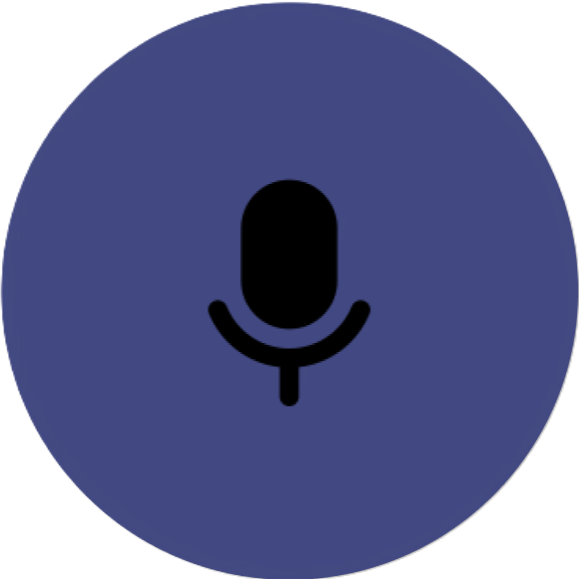
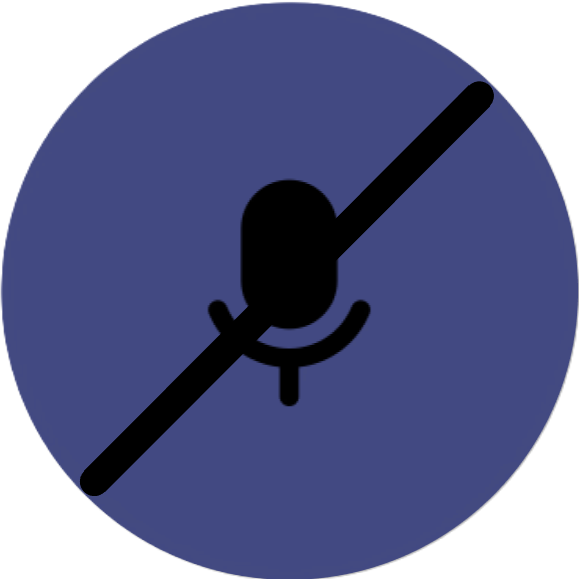
Fix: 비활성화 버튼 이미지 변경

Changed region(s): [[0.1244, 0.5285, 0.4663, 0.8705], [0.5596, 0.1244, 0.8705, 0.4663]]

diff --git a/FrontEnd/src/pages/TestPage/index.jsx b/FrontEnd/src/pages/TestPage/index.jsx
@@ -1,0 +1,332 @@
+import React, { useState, useRef } from "react";
+import Navbar from "../../components/Navbar";
+import Page from "../../components/Page";
+import Footer from "../../components/Footer";
+import { useDispatch, useSelector } from "react-redux";
+import {
+  startSpeech,
+  endSpeech,
+  assessSpeech,
+  postFeedback,
+  postComment,
+} from "../../services/speech";
+
+import Record from "./Record";
+import SpeechResult from "./SpeechResult";
+
+const TestPage = () => {
+  const token = useSelector((state) => state.userReducer.token);
+  const meetingInfo = useSelector(
+    (state) => state.studyReducer.studyInfo.meetingInfo
+  );
+
+  // ---------- Variables Before Speech ----------
+  const [title, setTitle] = useState("");
+
+  // ---------- Variables During Speech ----------
+  const [feedback, setFeedback] = useState("");
+  const [comment, setComment] = useState("");
+
+  const speechId = useRef(0);
+  const isRecording = useRef(false); // 녹화 중
+  const isLast = useRef(false);
+
+  const [mediaRecorder, setMediaRecorder] = useState(null); // 녹음
+
+  const [recordingTime, setRecordingTime] = useState(0); // 녹화 시간
+  const [recordingInterval, setRecordingInterval] = useState(null);
+
+  const audioChunksRef = useRef([]); // 음성 정보
+
+  const decibels = useRef([]);
+
+  // ---------- Variables After Speech ----------
+  const [showComment, setShowComment] = useState(true);
+
+  // ---------- Speech API Method ----------
+
+  // 녹화 시작 요청
+  const speechStart = () => {
+    startSpeech(
+      token,
+      {
+        title: title,
+        personal: false,
+        categoryId: 0,
+        sessionId: "session0",
+        // categoryId: meetingInfo.categoryId,
+        // sessionId: meetingInfo.sessionId,
+      },
+      (response) => {
+        // console.log("speechId : " + response.data.data);
+        speechId.current = response.data.data;
+        decibels.current = [];
+        // 녹화 시작
+        startRecording();
+
+        console.log("speechId : " + speechId.current);
+      },
+      (error) => {
+        console.log(error);
+      }
+    );
+  };
+
+  // 녹화 종료 요청
+  const speechEnd = () => {
+    isLast.current = true;
+    // 녹화 중지 함수 실행
+    stopRecording();
+
+    endSpeech(
+      token,
+      {
+        sessionId: "session0",
+        // sessionId: meetingInfo.sessionId,
+        speechId: speechId.current,
+        decibels: decibels.current,
+      },
+      (response) => {
+        // console.log(response);
+      },
+      (error) => {
+        console.log(error);
+      }
+    );
+  };
+
+  // 코멘트 등록 요청
+  const commentPost = () => {
+    postComment(
+      token,
+      {
+        speechId: speechId.current,
+        comment: comment,
+      },
+      (response) => {
+        // console.log(response);
+      },
+      (error) => {
+        console.log(error);
+      }
+    );
+
+    setShowComment(false);
+  };
+
+  // 피드백 등록 요청
+  const feebackPost = () => {
+    postFeedback(
+      token,
+      {
+        sessionId: "session0",
+        // sessionId: meetingInfo.sessionId,
+        content: feedback,
+      },
+      (response) => {
+        // console.log(response);
+      },
+      (error) => {
+        console.log(error);
+      }
+    );
+    setFeedback("");
+  };
+
+  // ---------- Speech Method ----------
+  const addDecibel = (newDecibel) => {
+    decibels.current.push(newDecibel);
+  };
+
+  // 녹화 시작
+  const startRecording = () => {
+    console.log("녹음 시작");
+    isLast.current = false;
+    isRecording.current = true;
+    audioChunksRef.current = []; // 오디오 청크를 새 배열로 초기화
+    setRecordingTime(0);
+
+    // recordTime 측정
+    const interval = setInterval(() => {
+      setRecordingTime((prevTime) => prevTime + 1);
+    }, 1000);
+    setRecordingInterval(interval);
+
+    navigator.mediaDevices
+      .getUserMedia({ audio: true })
+      .then((stream) => {
+        const audioContext = new AudioContext();
+        const source = audioContext.createMediaStreamSource(stream);
+        const analyzer = audioContext.createAnalyser();
+        analyzer.fftSize = 2048;
+        source.connect(analyzer);
+
+        const recorder = new MediaRecorder(stream);
+        setMediaRecorder(recorder);
+
+        // 녹음한 데이터를 upload한다.(서버에 전송한다.)
+        recorder.ondataavailable = (e) => {
+          if (e.data.size > 0) {
+            uploadAudio(e.data);
+          }
+        };
+
+        // 녹음 중지, 중지 버튼을 누른게 아닌 경우 자동으로 다시 녹음 시작
+        recorder.onstop = () => {
+          stream.getTracks().forEach((track) => track.stop());
+          if (isRecording.current) {
+            startRecording(); // 자동으로 다시 녹음 시작
+          }
+        };
+
+        recorder.start();
+
+        // 데시벨 측정
+        function analyzeAudio() {
+          if (!isRecording.current) {
+            return; // 녹음이 중지되면 분석 중지
+          }
+
+          const storedData = new Uint8Array(analyzer.frequencyBinCount);
+          analyzer.getByteFrequencyData(storedData);
+
+          let sum = 0;
+          for (let i = 0; i < storedData.length; i++) {
+            sum += storedData[i];
+          }
+
+          const average = sum / storedData.length;
+
+          // 배열의 뒤에 추가
+          addDecibel(calcDecibel(average));
+
+          setTimeout(analyzeAudio, 100);
+        }
+
+        analyzeAudio();
+
+        // 일정 주기마다 중지&재시작
+        setTimeout(() => {
+          if (recorder.state === "recording") {
+            recorder.stop();
+          }
+        }, 5000);
+      })
+      .catch((error) => {
+        console.error("오디오 스트림을 가져오는 중 오류 발생:", error);
+      });
+  };
+
+  // 데시벨 계산 후 추가하기
+  const calcDecibel = (average) => {
+    var decibel = Math.max(Math.round(38 * Math.log10(average)), 0);
+    return decibel;
+  };
+
+  // 녹화 종료
+  const stopRecording = () => {
+    // console.log("녹음 중지");
+    isRecording.current = false;
+    if (mediaRecorder && mediaRecorder.state === "recording") {
+      mediaRecorder.stop();
+    }
+
+    clearInterval(recordingInterval); // 타이머 중지
+
+    // 타이머 상태를 null로 초기화하여 다음 녹음에 영향을 주지 않도록 함
+    setRecordingInterval(null);
+  };
+
+  // 10초 평가 요청
+  const uploadAudio = async (data) => {
+    // console.log("평가 요청");
+    var tmp = [];
+    tmp.push(data);
+
+    const audioFile = new Blob(tmp, { type: "audio/wav" });
+    const formData = new FormData();
+    formData.append("audioFile", audioFile);
+    formData.append("speechId", speechId.current);
+    formData.append("isLast", isLast.current);
+
+    assessSpeech(
+      token,
+      formData,
+      (response) => {
+        // console.log(response.data);
+      },
+      (error) => {
+        console.log(error);
+      }
+    );
+  };
+
+  return (
+    <div className="Main">
+      <Page header={<Navbar />} footer={<Footer />}>
+        <div style={{ padding: "200px" }}>
+          <input
+            type="text"
+            id="title"
+            onChange={(e) => {
+              setTitle(e.target.value);
+            }}
+          />
+          <div style={{ marginTop: "20px" }}></div>
+          <button
+            style={{ border: "1px solid black", marginRight: "10px" }}
+            onClick={speechStart}
+            // disabled={isRecording.current}
+          >
+            녹음 시작
+          </button>
+          <button
+            style={{ border: "1px solid black" }}
+            onClick={speechEnd}
+            // disabled={!isRecording.current}
+          >
+            녹음 종료
+          </button>
+          <div style={{ marginTop: "20px" }}></div>
+          <input
+            type="text"
+            id="feedback"
+            value={feedback}
+            onChange={(e) => {
+              setFeedback(e.target.value);
+            }}
+          />
+          <div style={{ marginTop: "20px" }}></div>
+          <button style={{ border: "1px solid black" }} onClick={feebackPost}>
+            피드백 입력
+          </button>
+          <div style={{ marginTop: "20px" }}></div>
+          {showComment && (
+            <div>
+              <input
+                type="text"
+                id="comment"
+                onChange={(e) => {
+                  setComment(e.target.value);
+                }}
+              />
+              <div style={{ marginTop: "20px" }}></div>
+              <button
+                style={{ border: "1px solid black" }}
+                onClick={commentPost}
+              >
+                코멘트 입력
+              </button>
+            </div>
+          )}
+        </div>
+        <div style={{ marginTop: "20px" }}></div>
+        <Record />
+        <div style={{ marginTop: "20px" }}></div>
+        <SpeechResult />
+      </Page>
+    </div>
+  );
+};
+
+export default TestPage;

diff --git a/FrontEnd/src/pages/TestPage/Record.jsx b/FrontEnd/src/pages/TestPage/Record.jsx
@@ -1,0 +1,34 @@
+import React, { useState } from "react";
+
+const Record = () => {
+  const [title, setTitle] = useState("");
+
+  return (
+    <div style={{
+      width: "300px",
+      height: "100px",
+      backgroundColor: "white",
+      padding: "10px",
+    
+      display: "flex",
+      justifyContent: "center",
+      alignItems: "center",
+      flexDirection: "column",
+    }}>
+      <div style={{textAlign: "center"}}>
+        제목 : <input placeholder="제목 입력..."></input>
+        
+        {/* 제목 입력 받기 */}
+
+        {/* 필요하면 다른 정보도 보여주기 */}
+
+        {/* 녹화 시작하기 */}
+      </div>
+      <div style={{textAlign: "center", marginTop: "10px"}}>
+        <button>녹화 시작</button>
+      </div>
+    </div>
+  );
+};
+
+export default Record;

diff --git a/FrontEnd/src/pages/TestPage/SpeechResult.jsx b/FrontEnd/src/pages/TestPage/SpeechResult.jsx
@@ -1,0 +1,10 @@
+const SpeechResult = () => {
+
+    return(
+        <div>
+            <h3>스피치 결과</h3>
+        </div>
+    );
+};
+
+export default SpeechResult;
